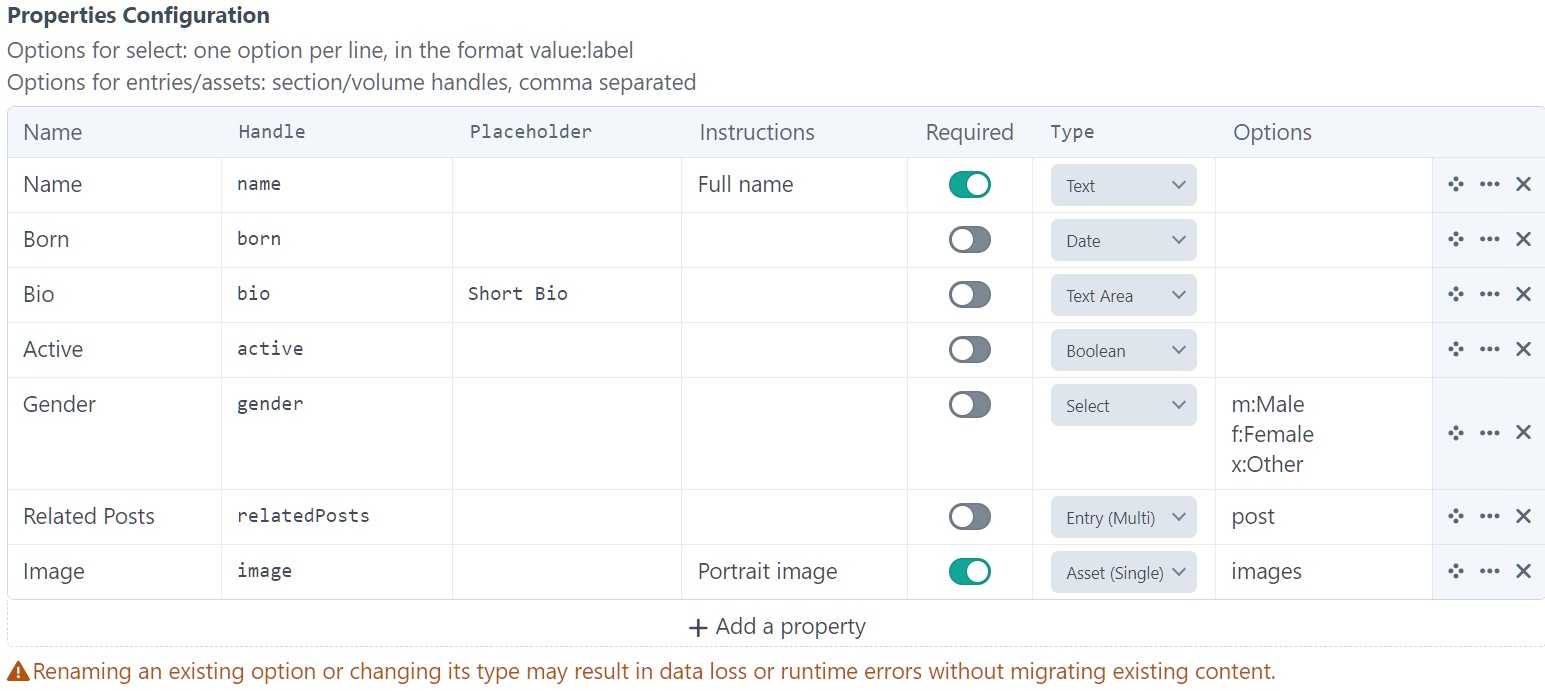
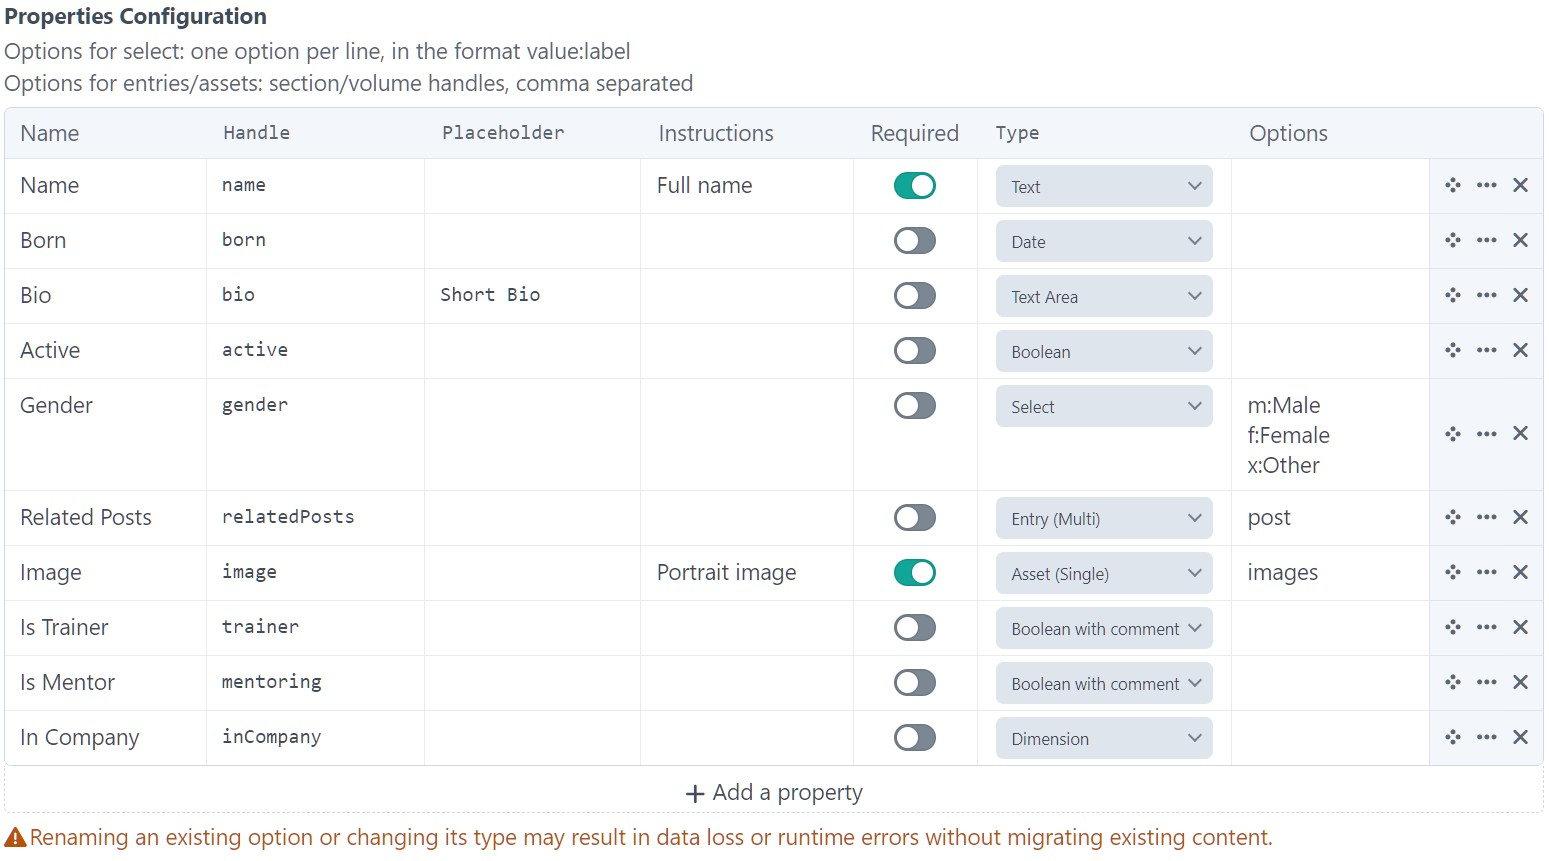
Combined property types

diff --git a/src/fields/Properties.php b/src/fields/Properties.php
@@ -127,6 +127,8 @@ class Properties extends Field implements RelationalFieldInterface
                         ['label' => 'Entry (Multi)', 'value' => 'entries'],
                         ['label' => 'Asset (Single)', 'value' => 'asset'],
                         ['label' => 'Asset (Multi)', 'value' => 'assets'],
+                        ['label' => 'Boolean with comment', 'value' => 'extendedBoolean'],
+                        ['label' => 'Dimension', 'value' => 'dimension'],
 //                        ['label' => 'Multi-select', 'value' => 'multiselect'],
                     ],
                     'width' => '10%',

diff --git a/README.md b/README.md
@@ -54,18 +54,30 @@ Work in progress.
 
 ````json
 {
-    "2563c798-42f7-493c-9bb8-9465a8355a72": {
-        "bio": "Nam ipsum risus, rutrum vitae, vestibulum eu, molestie vel, lacus. Donec vitae sapien ut libero venenatis faucibus. Praesent metus tellus, elementum eu, semper a, adipiscing nec, purus. Quisque libero metus, condimentum nec, tempor a, commodo mollis, magna. Mauris turpis nunc, blandit et, volutpat molestie, porta ut, ligula.\r\n\r\nQuisque malesuada placerat nisl. Curabitur turpis. Etiam vitae tortor. Cras non dolor. Donec pede justo, fringilla vel, aliquet nec, vulputate eget, arcu.",
-        "born": "1987-04-30T00:00:00+02:00",
-        "name": "Erna Klawuppke",
-        "image": "942",
-        "active": "1",
-        "gender": "f",
-        "relatedPosts": [
-            "5231",
-            "5215"
-        ]
-    }
+  "2563c798-42f7-493c-9bb8-9465a8355a72": {
+    "bio": "Nam ipsum risus, rutrum vitae, vestibulum eu, molestie vel, lacus. Donec vitae sapien ut libero venenatis faucibus. Praesent metus tellus, elementum eu, semper a, adipiscing nec, purus. Quisque libero metus, condimentum nec, tempor a, commodo mollis, magna. Mauris turpis nunc, blandit et, volutpat molestie, porta ut, ligula.\r\n\r\nQuisque malesuada placerat nisl. Curabitur turpis. Etiam vitae tortor. Cras non dolor. Donec pede justo, fringilla vel, aliquet nec, vulputate eget, arcu.",
+    "born": "1987-04-30T00:00:00+02:00",
+    "name": "Erna Klawuppke",
+    "image": "942",
+    "active": "1",
+    "gender": "f",
+    "trainer": {
+      "isOn": "1",
+      "comment": "Offers remote courses on coding"
+    },
+    "inCompany": {
+      "unit": "Years",
+      "quantity": "5"
+    },
+    "mentoring": {
+      "isOn": "",
+      "comment": "Not yet ready, planned for 10\/2025"
+    },
+    "relatedPosts": [
+      "5231",
+      "5215"
+    ]
+  }
 }
 ````
 
@@ -83,18 +95,21 @@ A list of properties to be displayed in the field. Each property has the followi
 
 * Name: The name of the property
 * Handle: The handle of the property
-* Placeholder: The placeholder text fields
-* Instructions: Instructions for the field, displayed in a popup via an `info` icon
-* Required: Whether the field is required
-* Type: The type of the field. The following types are supported:
+* Placeholder: The placeholder for text properties
+* Instructions: Instructions for the property, displayed in a popup via an `info` icon
+* Required: Whether the property is required
+* Type: The type of the property. The following types are supported:
   * Text: A single line text field
   * Textarea: A multi-line text field
   * Number: A number field
   * Email: An email field
+  * Boolean: A boolean field (lightswitch)
   * Select: A select field with options
   * Date: A date field
   * Entry/Entries: An entries field with one or multiple entries
   * Asset/Assets: An assets field with one or multiple assets
+  * Boolean with comment: A boolean field combined with a comment field (experimental)
+  * Dimension: Combines a number field with a text field for the unit (experimental)
 * Options: The options for the field. The following options are supported:
   * Select: A list of options for the select field, in the format `value:label`
   * Entry/Entries: A comma-separated list of section handles
@@ -190,5 +205,16 @@ TODO: Check why `.relatedTo({targetElement: 5231, field: 'personalData'})` does 
 
 This does not differentiate between the different sub-fields, so all entries selected by any sub-field are returned.
 
+## Roadmap for beta.2
 
+### Merged:
 
+* 'Boolean with comment' property type
+* 'Dimension' property type
+
+### Todo:
+
+* Support 'required' setting for combined fields
+* Support 'normalizedValue' for combined fields
+* Allow customization of property types
+* Load input field templates for property types dynamically
